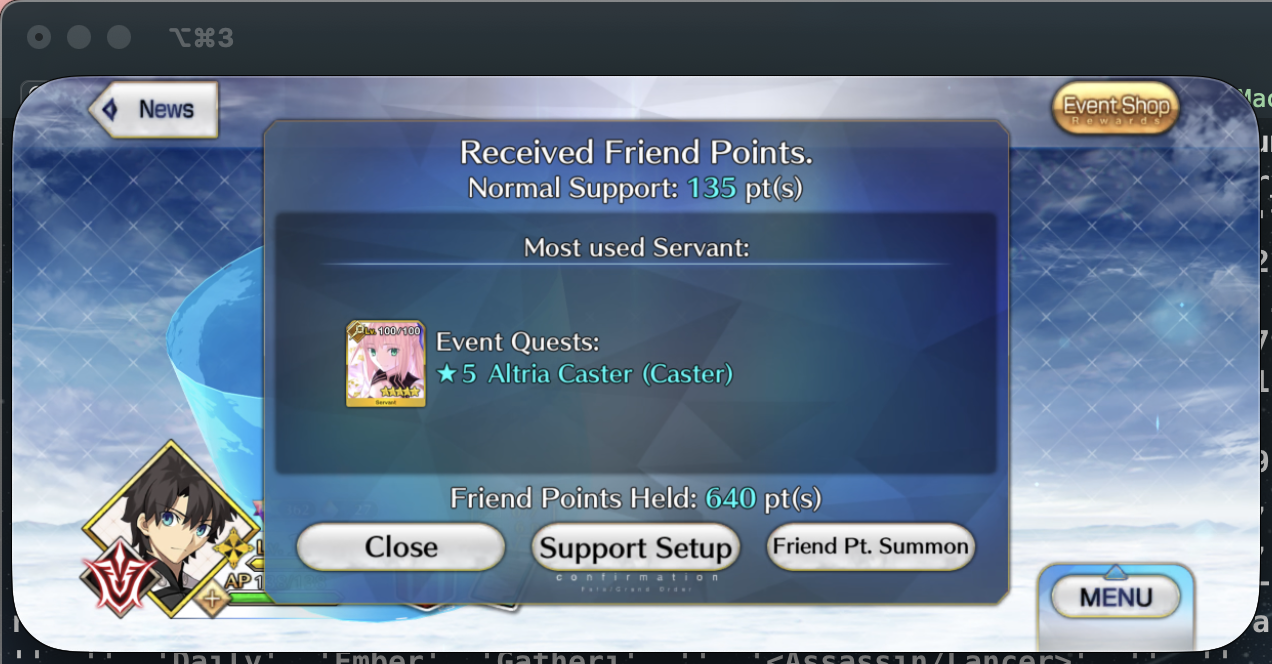
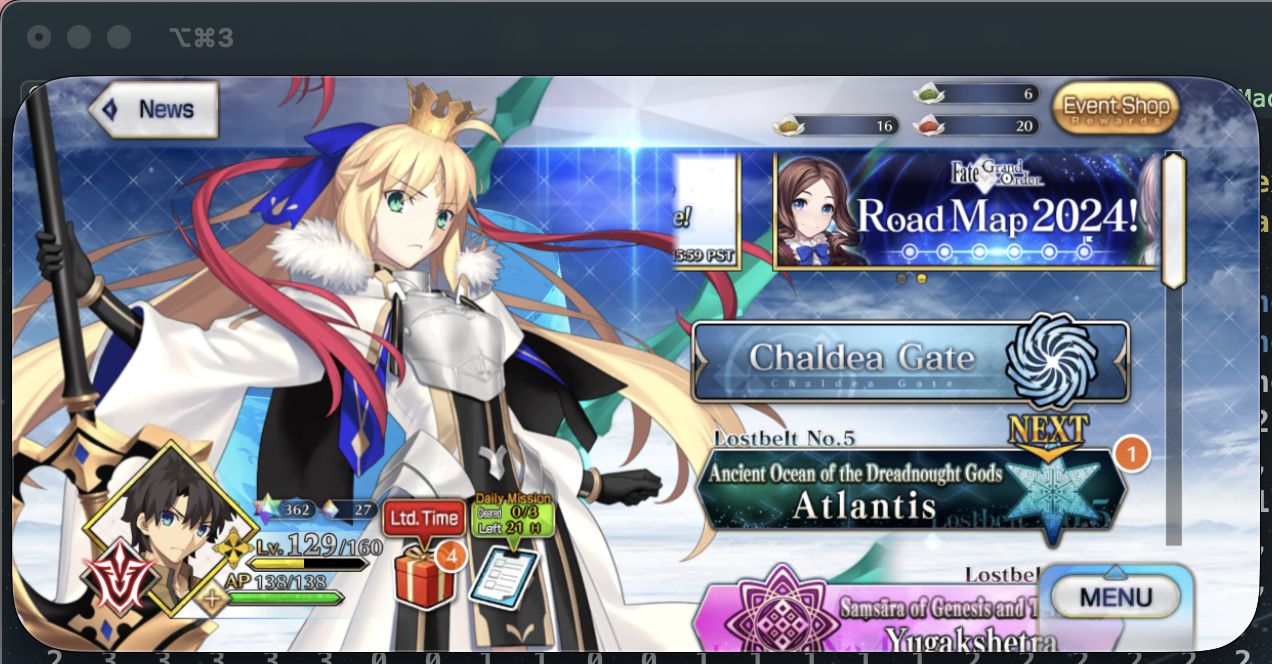
make sure scrolling for main gameplay homepage is correct

diff --git a/app.py b/app.py
@@ -24,6 +24,7 @@ def log(msg, msg_type="success"):
         logger.error(e)
 
 
+GENERAL_LONG_SLEEP = 10
 pag.PAUSE = 1
 
 
@@ -292,14 +293,29 @@ def get_iphone_mirroring_region():
 
 
 def main():
-    # step 1: launch and focus the iphone mirroring app
+    # launch and focus the iphone mirroring app
     launch_iphone_mirroring()
     focus_iphone_mirroring_window()
 
     region = get_iphone_mirroring_region()
 
-    # go to search button and click
-    pag.moveTo((region[0] + region[2]) // 2, (region[1] + region[3]) * 0.85)
+    # click on search button
+    left, top, width, height = region
+    capture_screenshot(
+        region={"top": top, "left": left, "width": width, "height": height},
+        output_path="img/screenshots/iphone_homescreen.png",
+    )
+    bbox = find_text_location(
+        "img/screenshots/iphone_homescreen.png", "Search"
+    )
+    if bbox:
+        x, y, width, height = bbox
+        log(
+            f"Bounding box for 'Search': x={x}, y={y}, width={width}, height={height}"
+        )
+        pag.moveTo(region[0] + x, region[1] + y)
+    else:
+        pag.moveTo((region[0] + region[2]) // 2, (region[1] + region[3]) * 0.85)
     pag.click()
 
     # open fgo
@@ -307,9 +323,8 @@ def main():
     pag.press("enter")
     log("fate/go entered into search bar.", "debug")
 
+    # click for first loading screen
     region = get_iphone_mirroring_region()
-
-    # Check if 'Please Tap the Screen' exists in the screenshot
     found = False
     while not found:
         left, top, width, height = region
@@ -321,15 +336,16 @@ def main():
             "img/screenshots/first_tap_on_open.png", "Please Tap the Screen"
         )
         time.sleep(1)
-
     pag.moveTo((region[0] + region[2]) // 2, (region[1] + region[3]) // 2)
     pag.click()
 
-    time.sleep(2)
+    # click for second loading screen
+    time.sleep(GENERAL_LONG_SLEEP)
     pag.click()
-    time.sleep(8)
+    time.sleep(GENERAL_LONG_SLEEP)
 
     # in case friend popup comes up
+    region = get_iphone_mirroring_region()
     left, top, width, height = region
     capture_screenshot(
         region={"top": top, "left": left, "width": width, "height": height},
@@ -350,7 +366,38 @@ def main():
         else:
             pag.moveTo((region[0] + region[2]) * 0.3, (region[1] + region[3]) * 0.85)
         pag.click()
+        time.sleep(GENERAL_LONG_SLEEP)
+    
+    # in case news shows up
+    region = get_iphone_mirroring_region()
+    left, top, width, height = region
+    capture_screenshot(
+        region={"top": top, "left": left, "width": width, "height": height},
+        output_path="img/screenshots/potential_news.png",
+    )
+    if check_text_in_image(
+        "img/screenshots/potential_news.png", "News"
+    ) or check_text_in_image(
+        "img/screenshots/potential_news.png", "Maintenance"
+    ) or check_text_in_image(
+        "img/screenshots/potential_news.png", "Issues"
+    ) or check_text_in_image(
+        "img/screenshots/potential_news.png", "Facebook"
+    ) or check_text_in_image(
+        "img/screenshots/potential_news.png", "X (Twitter)"
+    ):
+        pag.moveTo((region[0] + region[2]) * 0.885, (region[1] + region[3]) * 0.24)
+        pag.click()
+        time.sleep(GENERAL_LONG_SLEEP)
 
+    # drag scroll bar to top of screen
+    region = get_iphone_mirroring_region()
+    pag.moveTo((region[0] + region[2]) * 0.925, (region[1] + region[3]) * 0.35)
+    pag.click()
+    pag.dragTo((region[0] + region[2]) * 0.925, (region[1] + region[3]) * 0.3, button="left")
+    
+    # open Chaldea Gate menu
+    region = get_iphone_mirroring_region()
     left, top, width, height = region
     capture_screenshot(
         region={"top": top, "left": left, "width": width, "height": height},
@@ -366,9 +413,11 @@ def main():
         )
         pag.moveTo(region[0] + x, region[1] + y)
     else:
-        pag.moveTo((region[0] + region[2]) * 0.7, (region[1] + region[3]) * 0.775)
+        pag.moveTo((region[0] + region[2]) * 0.7, (region[1] + region[3]) * 0.61)
     pag.click()
-
+    
+    # open Daily Quests menu
+    region = get_iphone_mirroring_region()
     left, top, width, height = region
     capture_screenshot(
         region={"top": top, "left": left, "width": width, "height": height},
@@ -384,7 +433,9 @@ def main():
     else:
         pag.moveTo((region[0] + region[2]) * 0.7, (region[1] + region[3]) * 0.4)
     pag.click()
-
+    
+    # scroll to find Extreme QP quest
+    region = get_iphone_mirroring_region()
     left, top, width, height = region
     capture_screenshot(
         region={"top": top, "left": left, "width": width, "height": height},
@@ -394,9 +445,28 @@ def main():
         "img/screenshots/daily_quests_menu.png", "Enter the Treasure Vault - Extreme"
     )
     if bbox:
-        log("pls open thingy")
+        x, y, width, height = bbox
+        log(
+            f"Bounding box for 'Enter the Treasure Valut - Extreme': x={x}, y={y}, width={width}, height={height}"
+        )
+        pag.moveTo(region[0] + x, region[1] + y)
     else:
-        log("idk yet - probably scroll down", "warning")
+        while not bbox:            
+            pag.scroll(-500) # scroll down
+            
+            capture_screenshot(
+                region={"top": top, "left": left, "width": width, "height": height},
+                output_path="img/screenshots/daily_quests_menu.png",
+            )
+            bbox = find_text_location(
+                "img/screenshots/daily_quests_menu.png", "Enter the Treasure Vault - Extreme"
+            )
+
+        x, y, width, height = bbox
+        log(
+            f"Bounding box for 'Enter the Treasure Valut - Extreme': x={x}, y={y}, width={width}, height={height}"
+        )
+        pag.moveTo(region[0] + x, region[1] + y)
 
 
 if __name__ == "__main__":
